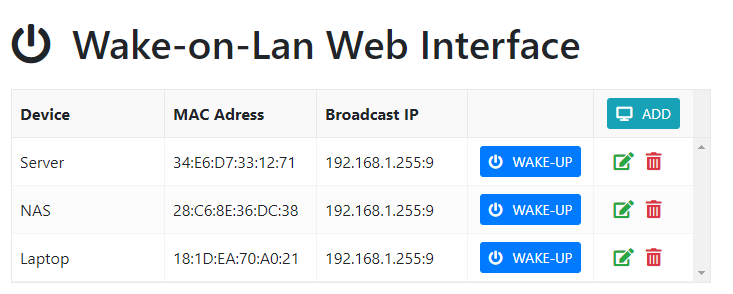
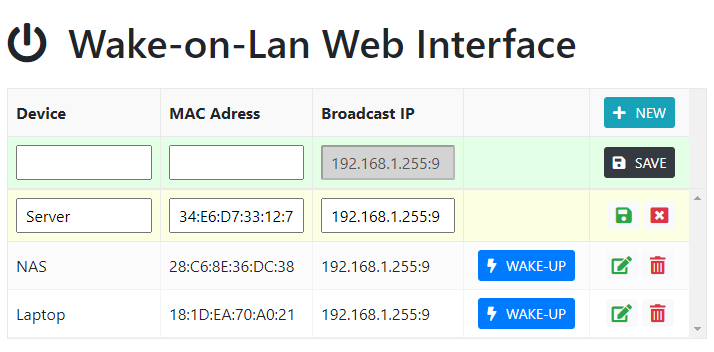
Added defaults for broadcast ip, UI changes to use bootstrap buttons, updated readme

diff --git a/static/wolweb.js b/static/wolweb.js
@@ -42,8 +42,8 @@ function getAppData() {
 
     $.getJSON(vDir + "/data/get", function (data) {
         window.appData = data;
-        if(!appData.devices) {
-            appData.devices=[];
+        if (!appData.devices) {
+            appData.devices = [];
         }
         renderData();
     }).fail(function (data) {
@@ -74,7 +74,7 @@ function renderData() {
 
         _createEditButton: function (item) {
             var grid = this._grid;
-            return $("<i class=\"fas fa-edit grid-button text-success\" title=\"" + this.editButtonTooltip + "\">").click(function (e) {
+            return $("<button class=\"btn btn-sm btn-light m-0 p-1\" title=\"" + this.editButtonTooltip + "\">").append("<i class=\"fas fa-edit bs-grid-button text-success m-0 p-0\">").click(function (e) {
                 grid.editItem(item);
                 e.stopPropagation();
             });
@@ -82,7 +82,7 @@ function renderData() {
 
         _createDeleteButton: function (item) {
             var grid = this._grid;
-            return $("<i class=\"fas fa-trash-alt grid-button text-danger\" title=\"" + this.deleteButtonTooltip + "\">").click(function (e) {
+            return $("<button class=\"btn btn-sm btn-light m-0 ml-1 p-1\" title=\"" + this.deleteButtonTooltip + "\">").append("<i class=\"fas fa-trash-alt bs-grid-button text-danger m-0 p-0\">").click(function (e) {
                 grid.deleteItem(item);
                 e.stopPropagation();
             });
@@ -90,7 +90,7 @@ function renderData() {
 
         _createUpdateButton: function () {
             var grid = this._grid;
-            return $("<i class=\"fas fa-save grid-button text-success\" title=\"" + this.updateButtonTooltip + "\">").click(function (e) {
+            return $("<button class=\"btn btn-sm btn-light m-0 ml-1 p-1\" title=\"" + this.updateButtonTooltip + "\">").append("<i class=\"fas fa-save bs-grid-button text-success m-0 p-0\">").click(function (e) {
                 grid.updateItem();
                 e.stopPropagation();
             });
@@ -98,7 +98,7 @@ function renderData() {
 
         _createCancelEditButton: function () {
             var grid = this._grid;
-            return $("<i class=\"fas fa-window-close grid-button text-danger\" title=\"" + this.cancelEditButtonTooltip + "\">").click(function (e) {
+            return $("<button class=\"btn btn-sm btn-light m-0 ml-1 p-1\" title=\"" + this.cancelEditButtonTooltip + "\">").append("<i class=\"fas fa-window-close bs-grid-button text-danger m-0 p-0\">").click(function (e) {
                 grid.cancelEdit();
                 e.stopPropagation();
             });
@@ -113,13 +113,21 @@ function renderData() {
 
     gridFields.push({ name: "name", title: "Device", type: "text", width: 150, validate: { validator: "required", message: "Device name is a required field." } });
     gridFields.push({ name: "mac", title: "MAC Adress", type: "text", width: 150, validate: { validator: "pattern", param: /^[0-9a-f]{1,2}([\.:-])(?:[0-9a-f]{1,2}\1){4}[0-9a-f]{1,2}$/gmi, message: "MAC Address is a required field." } });
-    gridFields.push({ name: "ip", title: "Broadcast IP", type: "text", width: 150, validate: { validator: "required", message: "Broadcast IP Address is a required field." } });
+    gridFields.push({
+        name: "ip", title: "Broadcast IP", type: "text", width: 150, validate: { validator: "required", message: "Broadcast IP Address is a required field." },
+        insertTemplate: function () {
+            var $result = jsGrid.fields.text.prototype.insertTemplate.call(this); // original input
+            $result.attr("disabled", true).css("background", "lightgray").val(bCastIP);
+            return $result;
+        },
+        // editing: false
+    });
     gridFields.push({
         name: "command", type: "control", width: 125, modeSwitchButton: false,
         itemTemplate: function (value, item) {
             return $("<button>").addClass("btn btn-primary btn-sm")
                 .attr({ type: "button", title: "Send magic packet" })
-                .html("<i class=\"fas fa-power-off\"></i>WAKE-UP")
+                .html("<i class=\"fas fa-bolt\"></i>WAKE-UP")
                 .on("click", function () {
                     $.wakeUpDeviceByName(item.name)
                 });
@@ -134,7 +142,7 @@ function renderData() {
             var isInserting = grid.inserting;
             var $button = $("<button>").addClass("btn btn-info btn-sm device-insert-button")
                 .attr({ type: "button", title: "Add new Device" })
-                .html("<i class=\"fas fa-desktop\"></i>ADD")
+                .html("<i class=\"fas fa-plus\"></i>NEW")
                 .on("click", function () {
                     isInserting = !isInserting;
                     grid.option("inserting", isInserting);

diff --git a/index.html b/index.html
@@ -62,6 +62,7 @@
 
   <script>
     window.vDir = "{{$.VDir}}"
+    window.bCastIP = "{{$.BCastIP}}"
   </script>
   <script src="https://code.jquery.com/jquery-3.2.1.min.js"></script>
   <script src="https://cdnjs.cloudflare.com/ajax/libs/tether/1.4.0/js/tether.min.js"></script>

diff --git a/static/wolweb.css b/static/wolweb.css
@@ -12,6 +12,11 @@
     margin-right: 12px !important;
 }
 
+.bs-grid-button {
+    font-size: 18px;
+    min-width: 22px;
+}
+
 .hideMe {
     display: none;
 }

diff --git a/types.go b/types.go
@@ -21,6 +21,7 @@ type AppData struct {
 
 // AppConfig represents a configuration object to initialize this application
 type AppConfig struct {
-	Port int    `json:"port" env:"WOLWEBPORT" env-default:"8089"`
-	VDir string `json:"vdir" env:"WOLWEBVDIR" env-default:"/wolweb"`
+	Port    int    `json:"port" env:"WOLWEBPORT" env-default:"8089"`
+	VDir    string `json:"vdir" env:"WOLWEBVDIR" env-default:"/wolweb"`
+	BCastIP string `json:"bcastip" env:"WOLWEBBCASTIP" env-default:"192.168.1.255:9"`
 }

diff --git a/pages.go b/pages.go
@@ -11,9 +11,11 @@ func renderHomePage(w http.ResponseWriter, r *http.Request) {
 	pageData := struct {
 		Devices []Device
 		VDir    string
+		BCastIP string
 	}{
 		Devices: appData.Devices,
 		VDir:    appConfig.VDir,
+		BCastIP: appConfig.BCastIP,
 	}
 	tmpl, _ := template.ParseFiles("index.html")
 	tmpl.Execute(w, pageData)

diff --git a/README.md b/README.md
@@ -18,6 +18,8 @@ Things I use this for:
 
 ![Screenshot](wolweb_ui.png)
 
+The UI features CRUD operation implemented using [js-grid.com](https://github.com/tabalinas/jsgrid) plugin. 
+
 ### Wake-up directly using HTTP Request
 
 /wolweb/wake/**&lt;hostname&gt;** -  Returns a JSON object
@@ -38,6 +40,7 @@ The application will use the following default values if they are not explicitly
 | --- | --- | --- |
 | Port | Define the port on which the webserver will listen | **8089**
 | Virtual Directory | A virtual directory to mount this application under | **/wolweb**
+| Broadcast IP and Port | This is broadcast IP address and port for the local network. *Please include the port :9* | **192.168.1.255:9**
 
 You can override the default application configuration by using a config file or by setting environment variables. The application will first load values from config file and look for environment variables and overwrites values from the file with the values which were found in the environment.
 
@@ -46,7 +49,8 @@ You can override the default application configuration by using a config file or
 ```json
 {
     "port": 8089,
-    "vdir":"/wolweb"
+    "vdir":"/wolweb",
+    "bcastip":"192.168.1.255:9"
 }
 ```
 **Using Environment Variables:**
@@ -57,6 +61,7 @@ You can override the default application configuration by using a config file or
 | --- | --- |
 | WOLWEBPORT | Override for default HTTP port
 | WOLWEBVDIR | Override for default virtual directory
+| WOLWEBBCASTIP | Override for broadcast IP address and port
 
 ## Devices (targets) - devices.json format
 ```json
